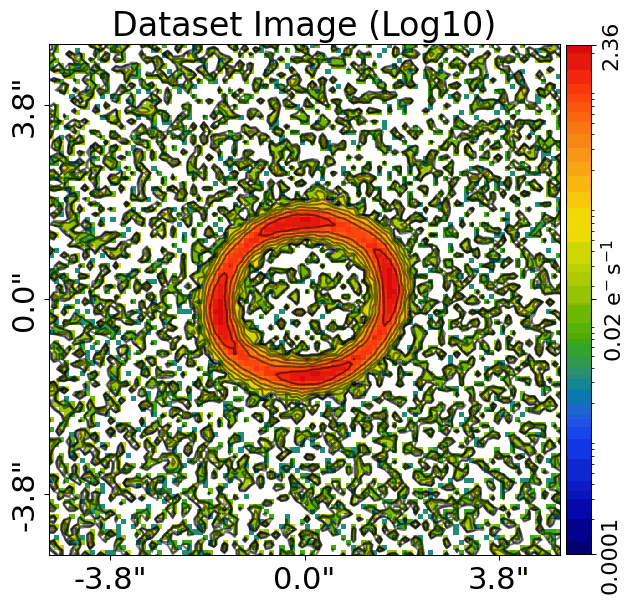
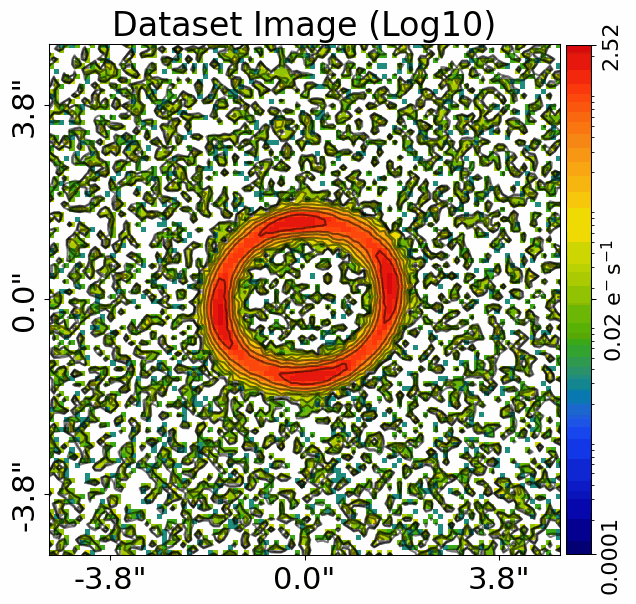
docs: regenerate tutorial_0_visualization from the fixed generator
The page shipped in #82 was hand-patched. Rendering it from a task worktree
leaked ~/Code/PyAutoLabs/PyAutoArray/.../convolver.py into the output, and
the line was corrected by hand to the form a canonical render produces. The
content was right, but the file was no longer byte-identical to generator
output, so the next worktree render would have reintroduced the leak.

PyAutoHands#281 fixed the generator (redaction roots now derived from where
the checkouts are, plus a guard that fails the build rather than publishing
a machine layout). This is that page, regenerated rather than repaired.

No hand edits. The warning block is gone entirely this run, and the only
absolute path left on the page is the commented example workspace_path the
tutorial deliberately shows the reader.

Claude-Session: https://claude.ai/code/session_014ujQLXo85GNH7tG5eaNJ65

diff --git a/markdown/chapter_1_introduction/tutorial_0_visualization.md b/markdown/chapter_1_introduction/tutorial_0_visualization.md
@@ -90,14 +90,6 @@ if al.util.dataset.should_simulate(str(dataset_path)):
     )
 ```
 
-    .../PyAutoArray/autoarray/operators/convolver.py:1478: UserWarning: No blurring_image provided. Only the direct image will be convolved. This may change the correctness of the PSF convolution.
-      warnings.warn(
-    Figure(700x700)
-    Figure(1800x1800)
-    Figure(1800x1800)
-    Figure(700x700)
-
-
 We now load this dataset from .fits files and create an instance of an `Imaging` object.
 
 
